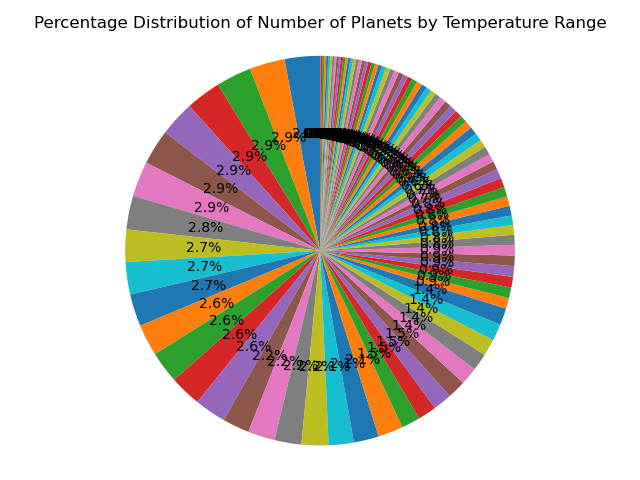
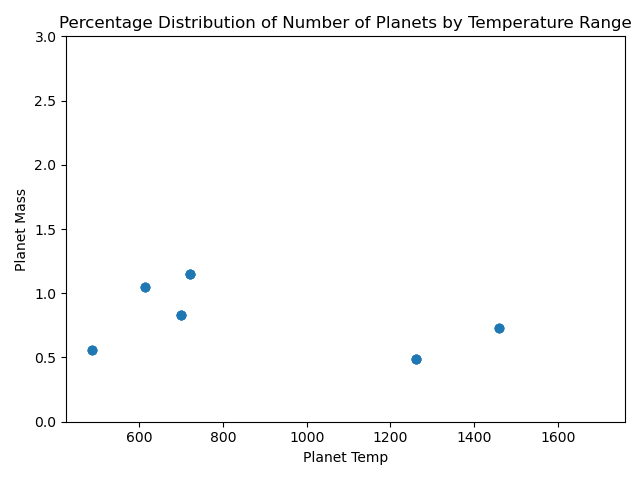
more changes to plots

diff --git a/processing.py b/processing.py
@@ -19,7 +19,7 @@ def main():
         add_cat_data(cur, conn, cat_data)
 
     cur.execute('''
-                SELECT origins.origin, AVG(cats.general_health) as average_health
+                SELECT origins.origin, AVG(cats.general_health) as average_health, max_weight, cat_name, general_health
                 FROM cats
                 JOIN origins ON cats.origin_id = origins.id
                 GROUP BY origins.origin
@@ -35,7 +35,7 @@ def main():
 
 # change this to calculate correlation between mass and radius or something
     cur.execute('''
-                SELECT planet_name, mass, temperature, host_star_temperature, host_star_mass
+                SELECT planet_name, mass, temperature, host_star_temperature, host_star_mass, radius
                 FROM planets
                 ORDER BY mass DESC
                 ''')
@@ -44,14 +44,17 @@ def main():
 
 
     with open('planet_output.txt', 'w') as f:
-        f.write("Planet Name, Mass, Temperature, Host Star Temperature, Host Star Mass\n")
+        f.write("Planet Name, Mass, Temperature, Host Star Temperature, Host Star Mass, Radius\n")
         for row in planet_data:
             print (planet_data)
-            f.write(f"{row[0]}, {row[1]}, {row[2]}, {row[3]}, {row[4]} \n")
+            f.write(f"{row[0]}, {row[1]}, {row[2]}, {row[3]}, {row[4]}, {row[5]} \n")
 
     origins = [row[0] for row in origin_health_data]
     avg_health = [row[1] for row in origin_health_data]
-
+    max_weight = [row[2] for row in origin_health_data]
+    cat_name = [row[3] for row in origin_health_data]
+    cat_health = [row[4] for row in origin_health_data]
+    print(origin_health_data)
     plt.bar(origins, avg_health, color='purple')
     plt.xlabel('Origin')
     plt.ylabel('Average Health')
@@ -61,9 +64,9 @@ def main():
     plt.savefig('visualization1.png')
     plt.show()
 
-    plt.pie(avg_health, labels=origins, autopct='%1.1f%%', startangle=90)
+    plt.stem(cat_name, max_weight)
     plt.axis('equal')
-    plt.title('Percentage Distribution of Average Health by Cat Origin')
+    plt.title('Percentage Distribution of Average Health by Cat Type')
     plt.tight_layout()
     plt.savefig('visualization2.png')
     plt.show()
@@ -72,22 +75,21 @@ def main():
     planet_mass = [row[1] for row in planet_data]
     planet_temp = [row[2] for row in planet_data]
     star_temp = [row[3] for row in planet_data]
-    star_mass = [row[3] for row in planet_data]
+    star_mass = [row[4] for row in planet_data]
+    planet_radius = [row[5] for row in planet_data]
 
-    print(len(planet_name))
-    print(len(planet_mass))
     plt.scatter(planet_mass, star_mass)
     plt.xlabel('Planet Mass')
     plt.ylabel('Star Mass')
-    plt.title('How Star Mass effects Planet Mass')
+    plt.title("How a Star's Mass effects Planet Mass")
     plt.tight_layout()
     plt.savefig('visualization3.png')
     plt.show()
-    print(star_temp)
-    print(star_mass)
 
-    plt.bar(planet_temp, star_temp)
-    plt.axis('equal')
+    plt.scatter(planet_temp, planet_mass)
+    plt.xlabel('Planet Temp')
+    plt.ylabel('Planet Mass')
+    plt.ylim(0, 3)
     plt.title('Percentage Distribution of Number of Planets by Temperature Range')
     plt.tight_layout()
     plt.savefig('visualization4.png')
